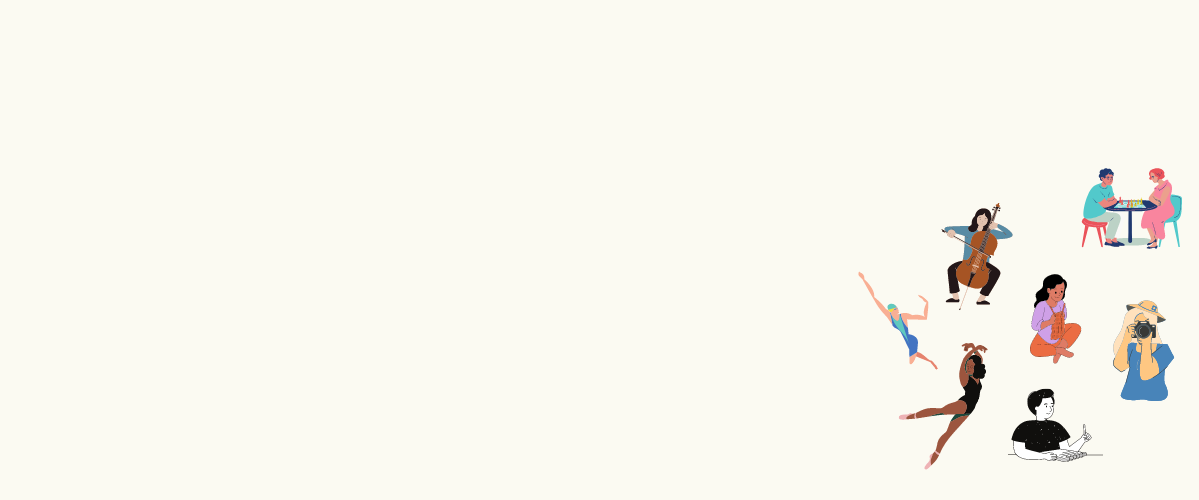
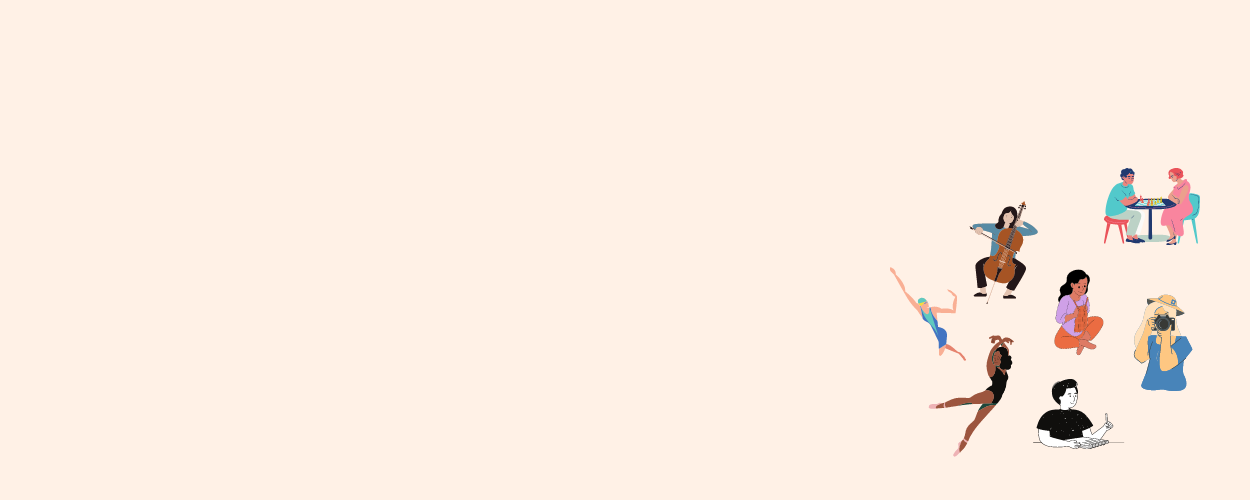
updated background color of hero image

Changed region(s): [[0.7098, 0.33, 0.9875, 0.93]]

diff --git a/styles.css b/styles.css
@@ -4,7 +4,7 @@ body {
 }
 
 .top-container {
-    background-image: url("images/background_img_resized.png");
+    background-image: url("images/background_img_resized2.png");
     background-position: left;
     height: 450px;
 }
